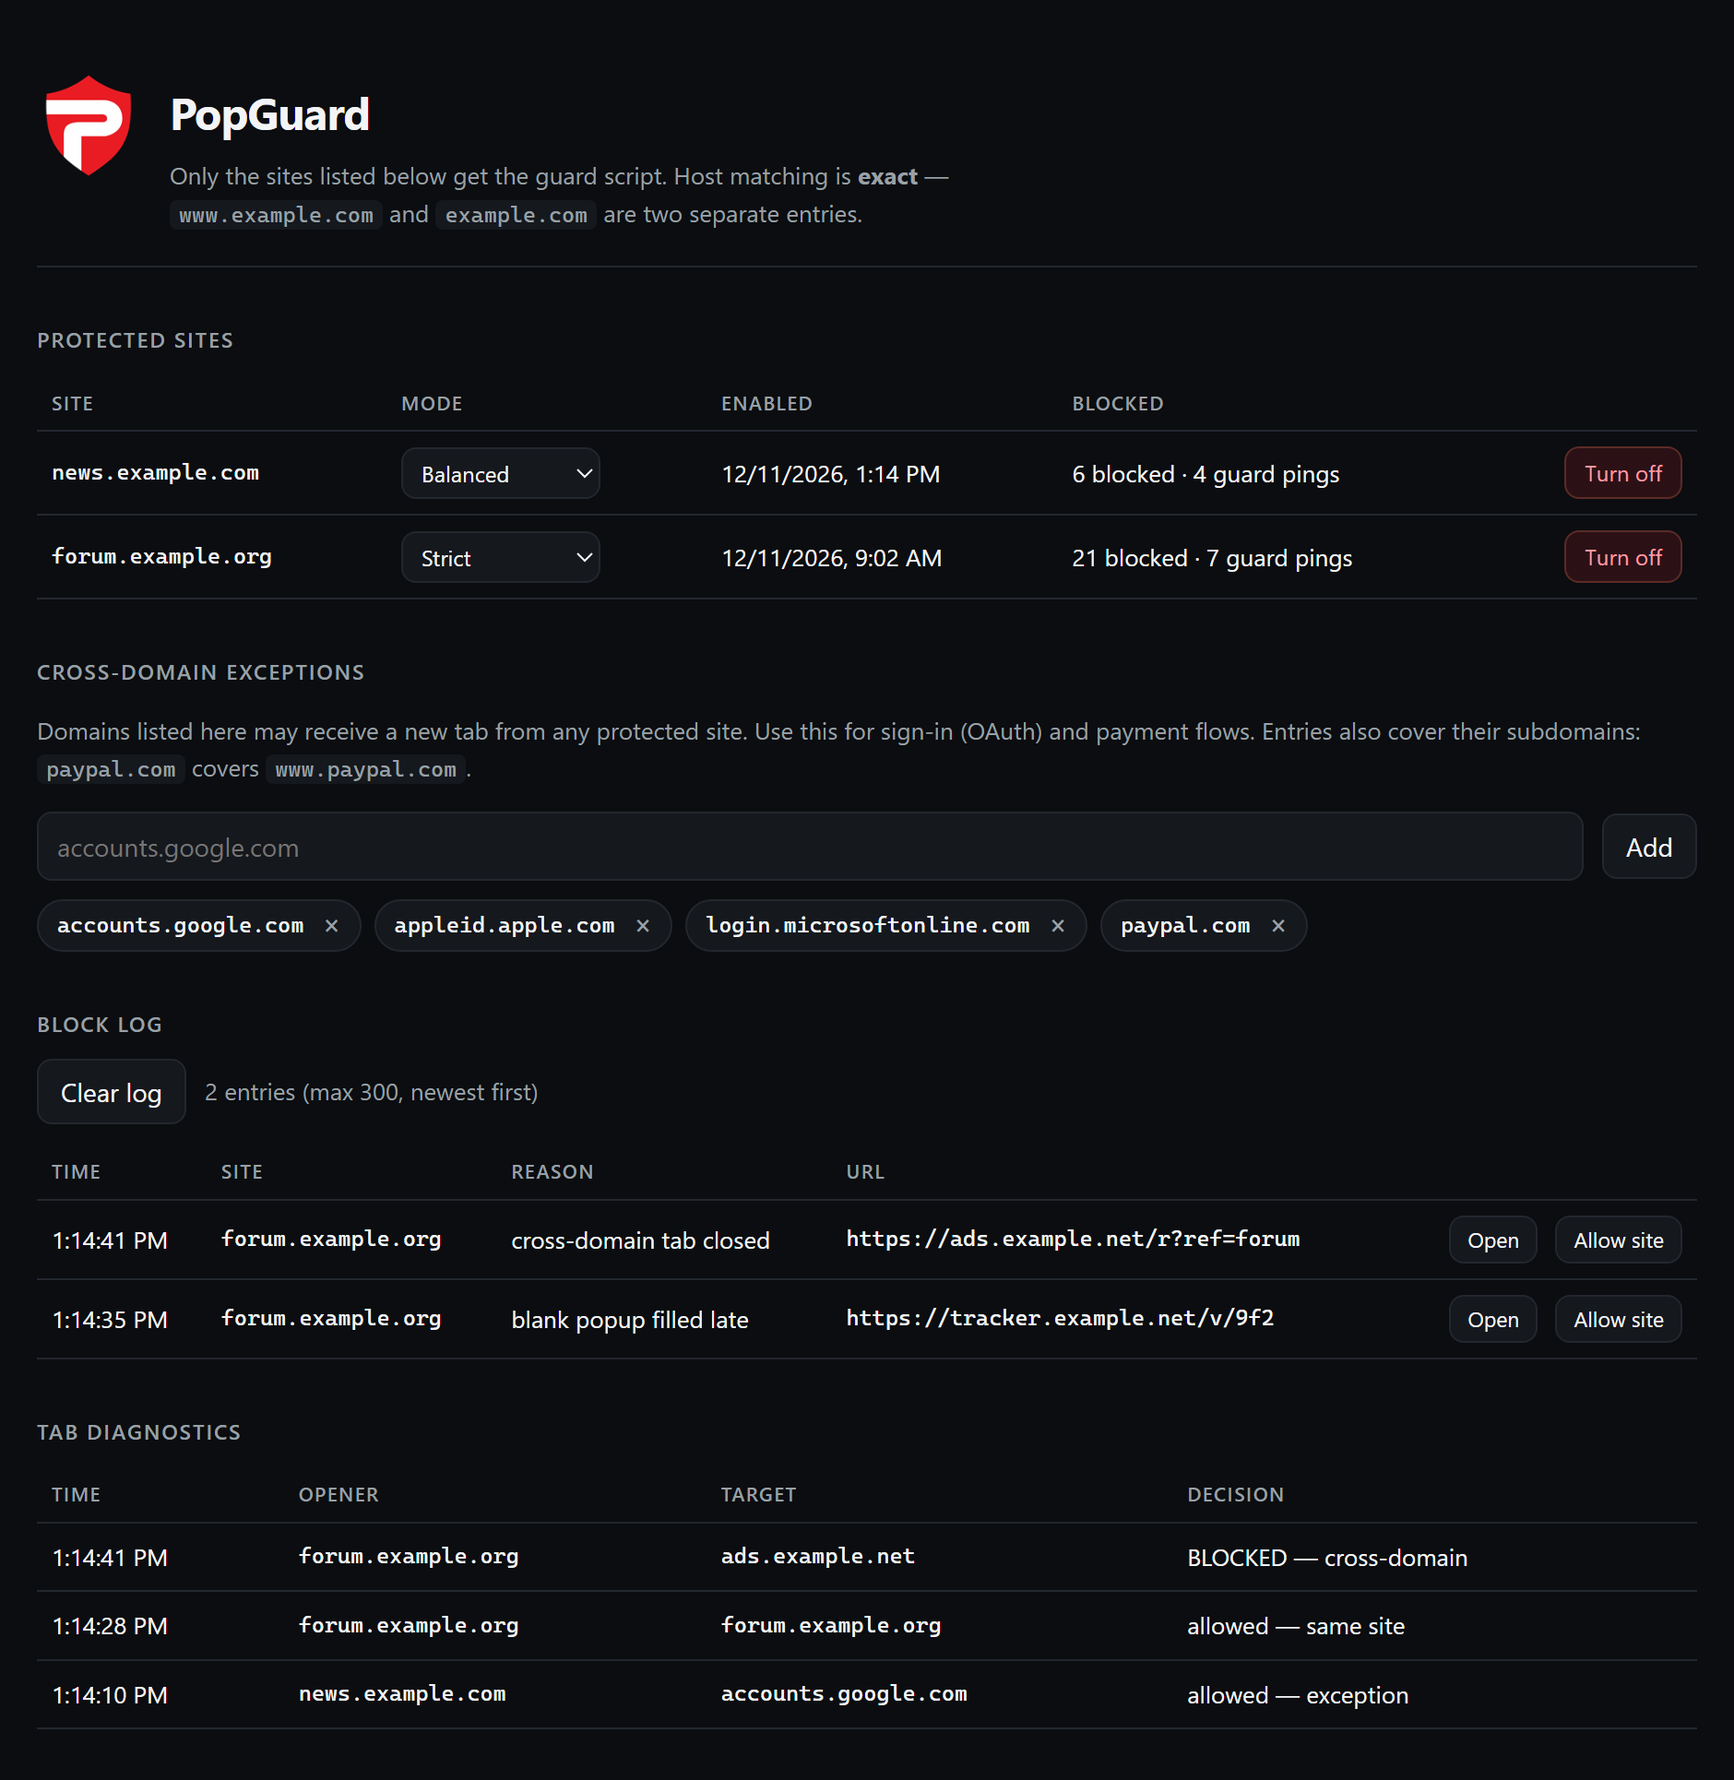
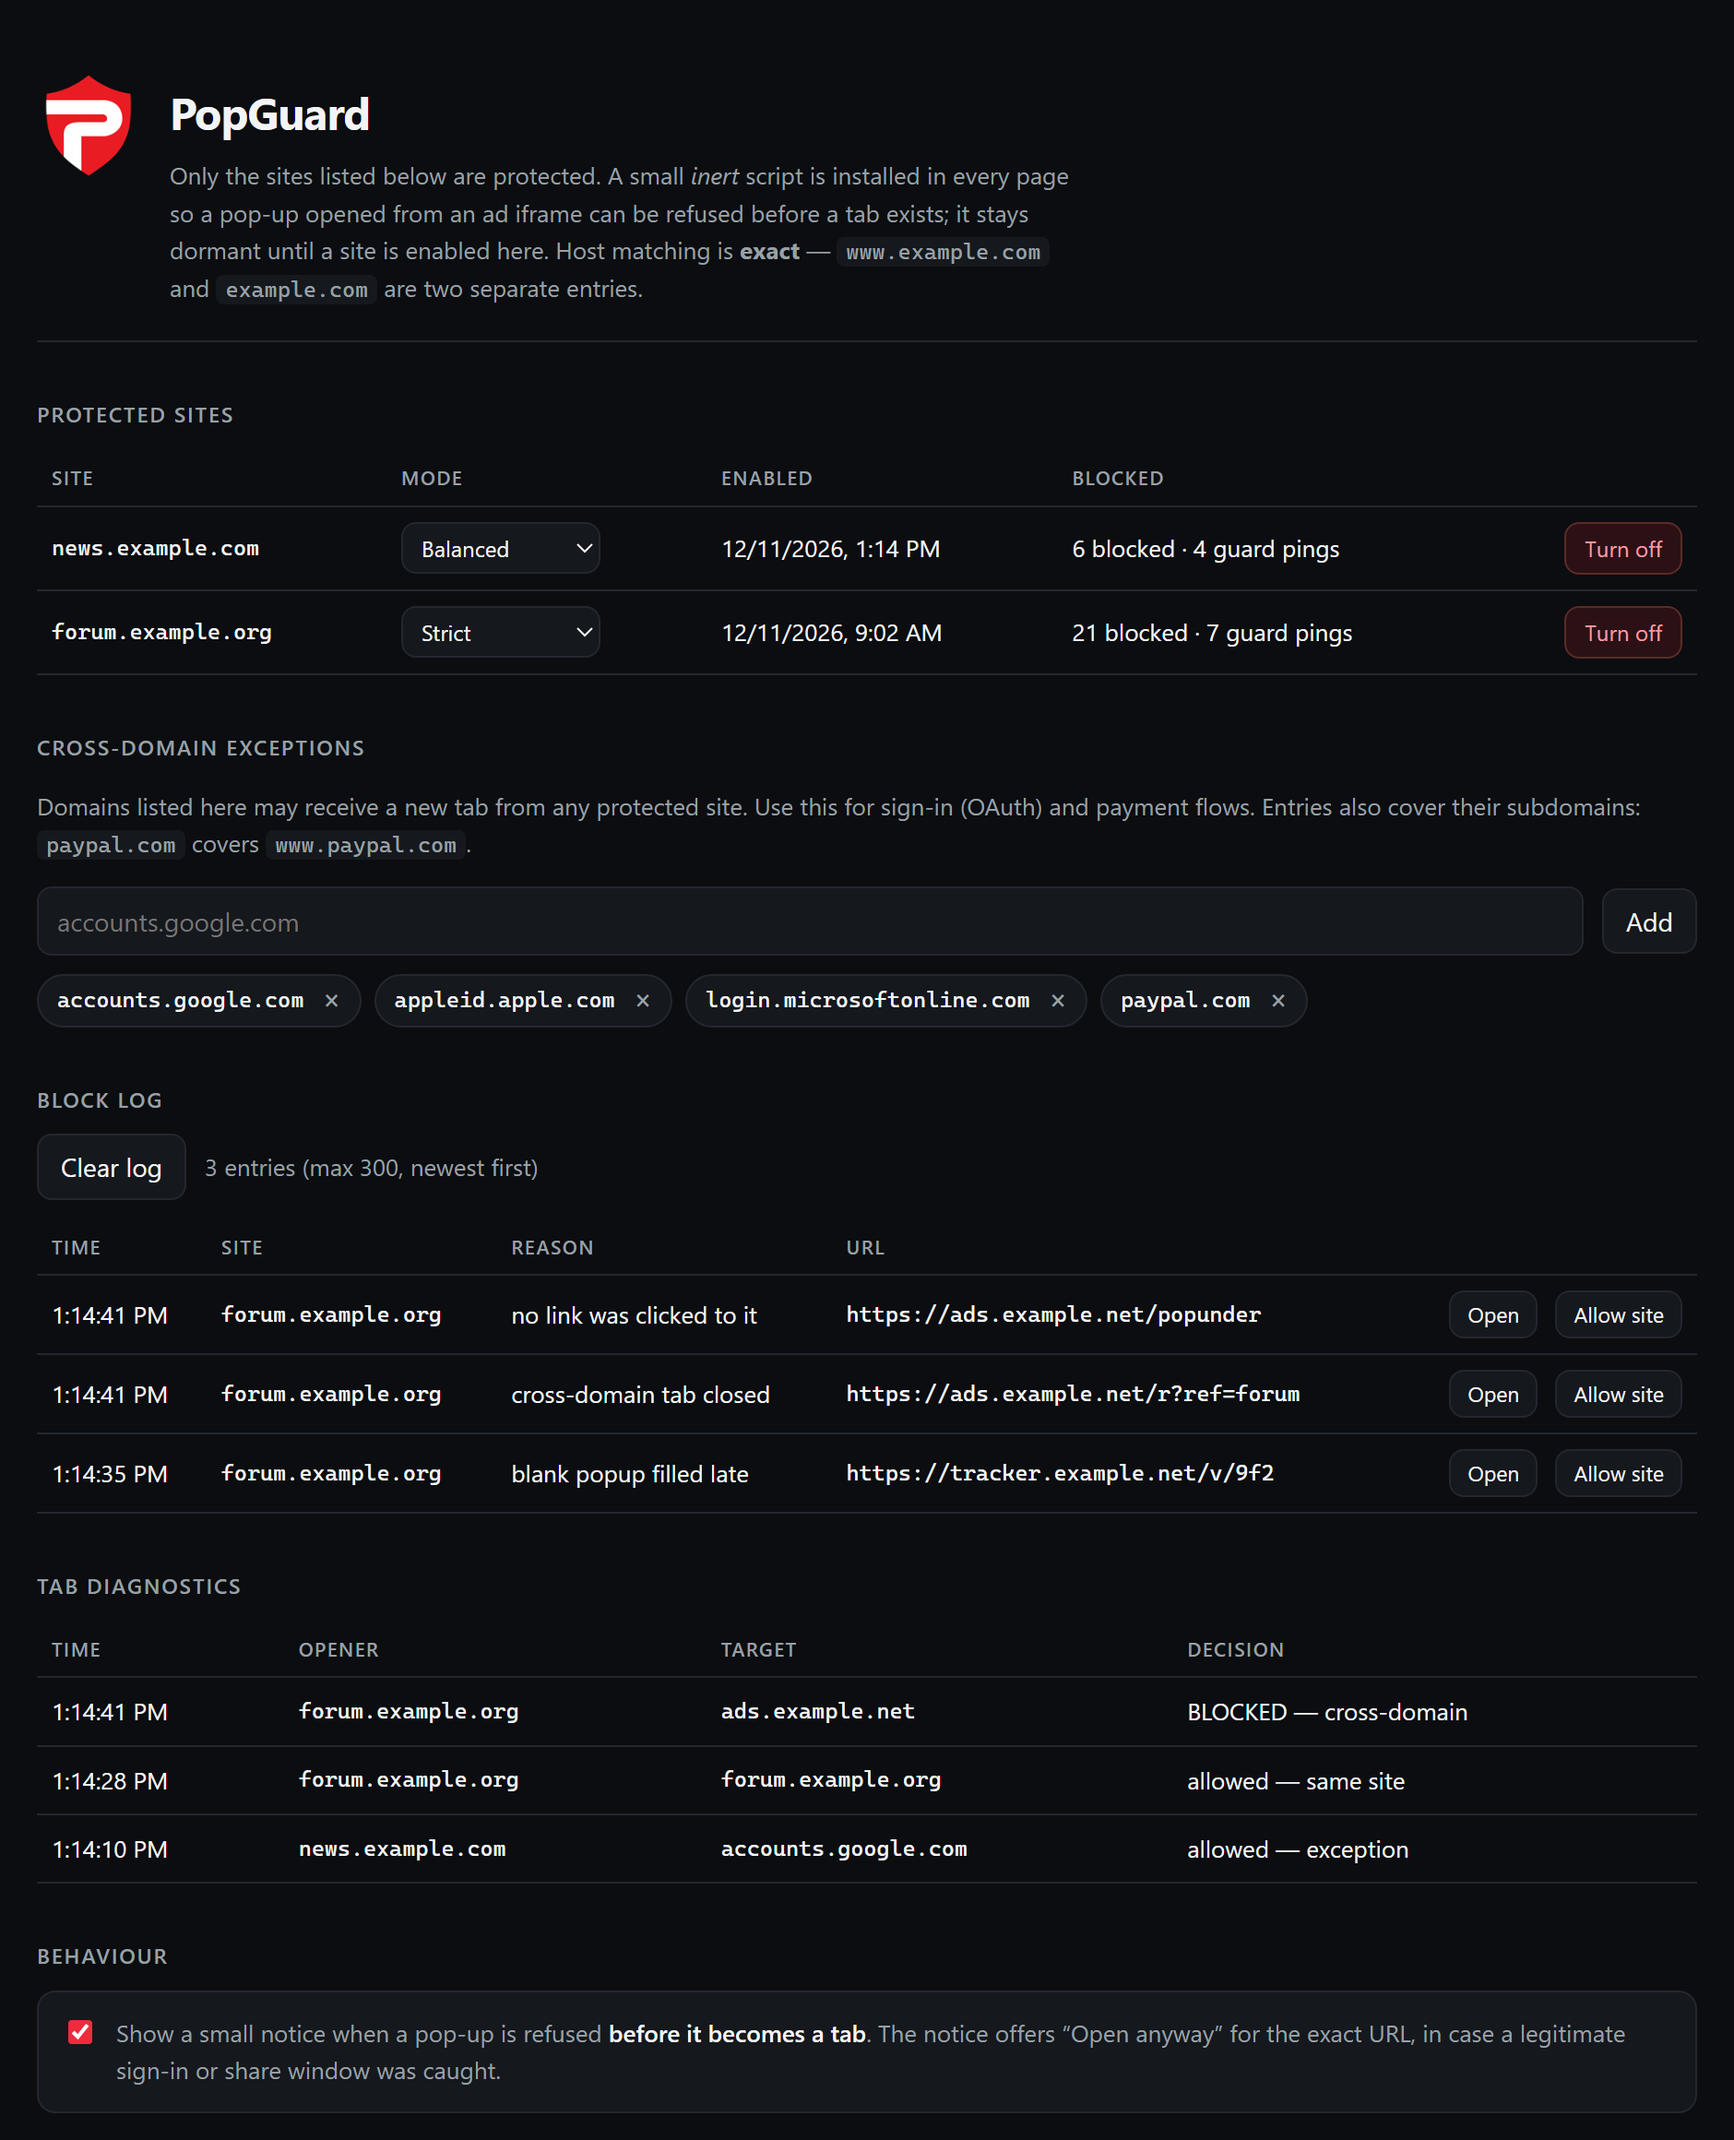
docs: describe the evidence rule and the notice
README, CONTRIBUTING and CHANGELOG now explain why a trusted click is not
enough, why blank pop-ups are refused, and what the frame guard adds. The
settings preview gained the notice toggle and the screenshot was re-rendered.

diff --git a/docs/preview/options.html b/docs/preview/options.html
@@ -17,9 +17,12 @@
         <div>
           <h1>PopGuard</h1>
           <p class="lead">
-            Only the sites listed below get the guard script. Host matching is
-            <strong>exact</strong> — <code>www.example.com</code> and
-            <code>example.com</code> are two separate entries.
+            Only the sites listed below are protected. A small <em>inert</em>
+            script is installed in every page so a pop-up opened from an ad
+            iframe can be refused before a tab exists; it stays dormant until a
+            site is enabled here. Host matching is <strong>exact</strong> —
+            <code>www.example.com</code> and <code>example.com</code> are two
+            separate entries.
           </p>
         </div>
       </header>
@@ -78,7 +81,7 @@
         <h2>Block log</h2>
         <div class="toolbar">
           <button class="secondary" type="button">Clear log</button>
-          <span class="note">2 entries (max 300, newest first)</span>
+          <span class="note">3 entries (max 300, newest first)</span>
         </div>
         <table>
           <thead>
@@ -91,6 +94,16 @@
             </tr>
           </thead>
           <tbody>
+            <tr>
+              <td class="nowrap">1:14:41 PM</td>
+              <td class="mono nowrap">forum.example.org</td>
+              <td class="nowrap">no link was clicked to it</td>
+              <td class="mono url-cell">https://ads.example.net/popunder</td>
+              <td class="row-actions">
+                <button class="secondary" type="button">Open</button>
+                <button class="secondary" type="button">Allow site</button>
+              </td>
+            </tr>
             <tr>
               <td class="nowrap">1:14:41 PM</td>
               <td class="mono nowrap">forum.example.org</td>
@@ -147,6 +160,19 @@
             </tr>
           </tbody>
         </table>
+      </section>
+
+      <section>
+        <h2>Behaviour</h2>
+        <label class="toggle-row">
+          <input type="checkbox" checked />
+          <span>
+            Show a small notice when a pop-up is refused
+            <em>before it becomes a tab</em>. The notice offers “Open anyway” for
+            the exact URL, in case a legitimate sign-in or share window was
+            caught.
+          </span>
+        </label>
       </section>
     </main>
   </body>

diff --git a/CONTRIBUTING.md b/CONTRIBUTING.md
@@ -15,7 +15,9 @@ Syntax gate — the browser is still the real verifier:
 
 ```powershell
 node --check src/background/sw.js
+node --check src/page/policy.js
 node --check src/page/guard.js
+node --check src/page/frame-guard.js
 node --check src/content/bridge.js
 node --check src/ui/popup.js
 node --check src/ui/options.js
@@ -35,7 +37,11 @@ Expected outcomes are listed in `test/fixtures/index.html`. Two of them form a
 regression pair:
 
 - `05-legit-oauth.html` must stay **allowed** (same-site popup from a real click).
-- `06-cross-domain.html` must be **blocked** in strict mode only.
+- `06-cross-domain.html` must be **blocked** in both modes (`no-evidence`).
+
+`07-iframe-popup.html` needs the server's second origin (`127.0.0.1`) and proves
+the frame guard denies a pop-up before a tab exists. `08-same-site-redirect.html`
+must show a tab that appears and is then closed (`blocked-redirect`, strict mode).
 
 ## Ground rules
 
@@ -45,28 +51,63 @@ alternative was tried and produced a real bug.
 - **`chrome.permissions.request()` stays in `src/ui/popup.js`.** Host access comes
   from `host_permissions` at install, so arming a site never prompts. Do not
   reintroduce `optional_host_permissions`.
-- **`src/page/guard.js` runs in the MAIN world** and has no `chrome.*` access. All
+- **A trusted click is not evidence.** A pop-up that leaves the protected host is
+  only allowed when the user clicked a link pointing at that destination
+  (`matchesClicked` in `src/page/policy.js`). Ad buttons are trusted clicks too;
+  reverting this re-opens the "every banner opens a tab" hole.
+- **Only the protected document's clicks are evidence.** `isProtectedDocument()`
+  gates `matchesClicked`. An ad iframe whose banner the user clicked matches its
+  own href and would otherwise authorise its own tab — that was a real leak that
+  logged nothing, because the guard "allowed" it.
+- **`HTMLIFrameElement.prototype.contentWindow` is patched.** A fresh
+  `about:blank` frame still holds the native `open`, so
+  `frame.contentWindow.open.call(window, url)` bypasses `window.open` entirely.
+  The getter hands back a window whose `open` is guarded. Removing it brings back
+  a popup that produces no log line.
+- **A blank pop-up is refused even after a click.** `window.open('about:blank')`
+  is the same vector one step later: the page fills it with an ad a second later,
+  and waiting for that is what still showed a tab. Legacy print windows are the
+  accepted cost.
+- **Frames learn about arming from their parent first, and from the service
+  worker second.** `policy.js` relays `{type:'armed'}` down the frame tree; only a
+  parent may arm a child. Without the relay the frame guard is inert for the first
+  moments of an ad iframe's life — exactly when its pop-up fires.
+- **The guard refuses; it does not close.** When `window.open` is refused, the
+  real `window.open` is never called, so no tab is created. Returning the stub is
+  the whole point — a tab that exists has already flashed.
+- **Registration is not protection.** `src/page/frame-guard.js` is registered for
+  `<all_urls>` in every frame, but it is inert until the service worker confirms
+  the tab's **top** host is armed (`thg:config` → `armed`). Decisions are always
+  relative to that top host, never to the frame's own origin.
+- **`src/page/policy.js` runs in the MAIN world** and has no `chrome.*` access. All
   reporting goes through `postMessage` → `src/content/bridge.js`.
 - **Allow tokens are bound to a URL key** (`origin + path + search`). A bare
   timestamp once let an ad reuse the approval meant for a legitimate popup.
-- **Modes are per host and mean different things.** `balanced` lets real clicks
-  leave the site; `strict` blocks every cross-domain tab unless excepted.
+- **Modes are per host and mean different things.** `balanced` lets a real click
+  on a *link* leave the site; `strict` blocks every cross-domain tab unless
+  excepted. Modes do not affect the `window.open` evidence rule.
 - **Redirect surveillance runs only in strict mode**, and never on tabs the user
-  opened personally.
+  opened personally. It listens on `webNavigation.onBeforeNavigate` so the ad page
+  never loads.
 - **`window.open` must return an inert stub**, never `null`; sites call
   `popup.focus()` immediately.
+- **A notice is not a pop-up.** The only UI the guard adds is a small
+  closed-shadow-root notice with "Open anyway" for the exact URL just refused.
+  It exists because early refusal is aggressive; do not add confirmation dialogs.
 - **No remote code, no telemetry, no bundler.** Everything ships in the package.
 
 ## Project layout
 
 | Path | Role |
 | --- | --- |
-| `src/page/guard.js` | MAIN-world guard: `window.open`, `_blank` anchors, cross-domain policy |
-| `src/content/bridge.js` | ISOLATED-world relay, config fetch, liveness ping |
+| `src/page/policy.js` | MAIN world: shared decisions, `window.open`/anchor patching |
+| `src/page/guard.js` | Entry point for an armed host's top frames (fails closed) |
+| `src/page/frame-guard.js` | Entry point for subframes on every site; inert until armed |
+| `src/content/bridge.js` | ISOLATED world: relay, config, liveness ping, "Open anyway" notice |
 | `src/background/sw.js` | Tab watchdog, host database, registrations, log, diagnostics |
 | `src/ui/popup.*` | Shield state, blocked-today count, toggle, mode selector |
-| `src/ui/options.*` | Hosts, exceptions, block log, tab diagnostics, backup |
-| `test/fixtures/` | Six manual fixtures and a static server |
+| `src/ui/options.*` | Hosts, exceptions, block log, tab diagnostics, notice toggle, backup |
+| `test/fixtures/` | Eight manual fixtures and a static server |
 | `docs/preview/` | Static pages used to render README screenshots |
 
 ## Screenshots

diff --git a/README.md b/README.md
@@ -52,12 +52,21 @@ support a site and still keep the tab bar under control.
 
 ## Features
 
-- **Per-site protection.** Only hosts you turn on get the guard script.
+- **Per-site protection.** Only hosts you turn on are protected. A small inert
+  frame script is installed in every page so a pop-up fired from an ad iframe can
+  be refused; it does nothing until a site is enabled.
+- **No tab at all.** A pop-up that leaves the site without a clicked link
+  pointing at it is refused inside `window.open` — and so is a blank
+  `about:blank` pop-up, which was the last way an ad tab still appeared — so no
+  tab is created and nothing flashes. A small notice offers **Open anyway** for
+  that exact URL.
 - **Two layers.** A page-level guard that stops pop-ups before they open, and a
-  browser-level watchdog that closes what slips past it.
+  browser-level watchdog that handles what only exists after a tab is born —
+  a same-site banner that redirects to an ad.
 - **Two modes.**
-  - **Balanced** — real clicks may leave the site; tabs with no interaction,
-    pop-ups without an opener and blank tabs filled by ads are still blocked.
+  - **Balanced** — real clicks on links may leave the site; pop-ups fired by a
+    script still need evidence, and tabs with no interaction, pop-ups without an
+    opener and blank tabs filled by ads are blocked.
   - **Strict** — every cross-domain tab is blocked unless the domain is
     explicitly excepted. Right-click, Ctrl-click and middle-click still work.
 - **Block log and diagnostics.** Every decision is recorded with its reason, so
@@ -79,13 +88,16 @@ Reload the page after enabling: the guard is only installed on page load.
 
 - **A tab opened without an opener** (noopener) is attributed by focus; a
   background tab in the same window is deliberately left alone.
-- **Pop-ups that never leave `about:blank`** (content written via
-  `document.write`) are not closed, because closing all blank tabs would break
-  typing a URL into a new tab.
-- **Pop-ups opened by a plain left click** are allowed in balanced mode and
-  blocked in strict mode. That is the line between a forum and an ad-heavy site.
-- **Redirect surveillance** only runs in strict mode and only for tabs the user
-  did not open personally.
+- **A same-site banner that redirects** cannot be refused at birth — at that
+  moment it is indistinguishable from a legitimate same-site pop-up. It is
+  closed by the watchdog before the ad page loads (strict mode only).
+- **Pop-ups that only ever exist as `about:blank`** (content written via
+  `document.write`) are refused altogether. Legacy print/preview windows that use
+  that pattern stop working on an enabled site; in exchange, an ad can no longer
+  open a blank tab and fill it a second later.
+- **Pop-ups opened by a plain left click on a cross-domain link** are allowed in
+  balanced mode and blocked in strict mode. That is the line between a forum and
+  an ad-heavy site.
 - Practically tested on Brave; other Chromium browsers should work but are not
   covered by a test suite.
 

diff --git a/CHANGELOG.md b/CHANGELOG.md
@@ -1,5 +1,35 @@
 # Changelog
 
+## 0.3.0 — 2026-11-14
+
+**No tab at all**
+
+- A cross-domain `window.open` is now refused *inside* `window.open` unless the
+  user clicked a link pointing at that destination. The real `window.open` is
+  never called, so no tab is created — nothing flashes and closes.
+- The same rule applies in both modes. Modes now govern `_blank` link clicks
+  only; scripted pop-ups always need evidence.
+- A small notice offers **Open anyway** for the exact URL that was refused. It
+  can be switched off in settings.
+- Cross-origin ad iframes are covered: a frame guard runs in every frame of every
+  site, but stays inert until the tab's top host is enabled. The armed decision is
+  relayed down the frame tree so a freshly created ad iframe is covered before its
+  first click.
+- A blank `about:blank` pop-up is refused too — it was the last way an ad tab
+  still appeared before being closed.
+- A form with `target=_blank` to another site is blocked in strict mode; it never
+  passes through `window.open` or a link click.
+- A clean `window.open` grabbed from a freshly created iframe is guarded too: the
+  `contentWindow` getter hands back a window whose `open` is patched, so that
+  trick no longer produces an unlogged popup.
+
+**Faster backstop**
+
+- `webNavigation` supplies the destination URL at tab creation, so the decision
+  no longer waits for `tabs.onUpdated`.
+- Redirect surveillance now listens on `onBeforeNavigate`, so a same-site banner
+  that redirects to an ad is closed before the ad page is requested.
+
 ## 0.2.0 — 2026-11-12
 
 First public release.
